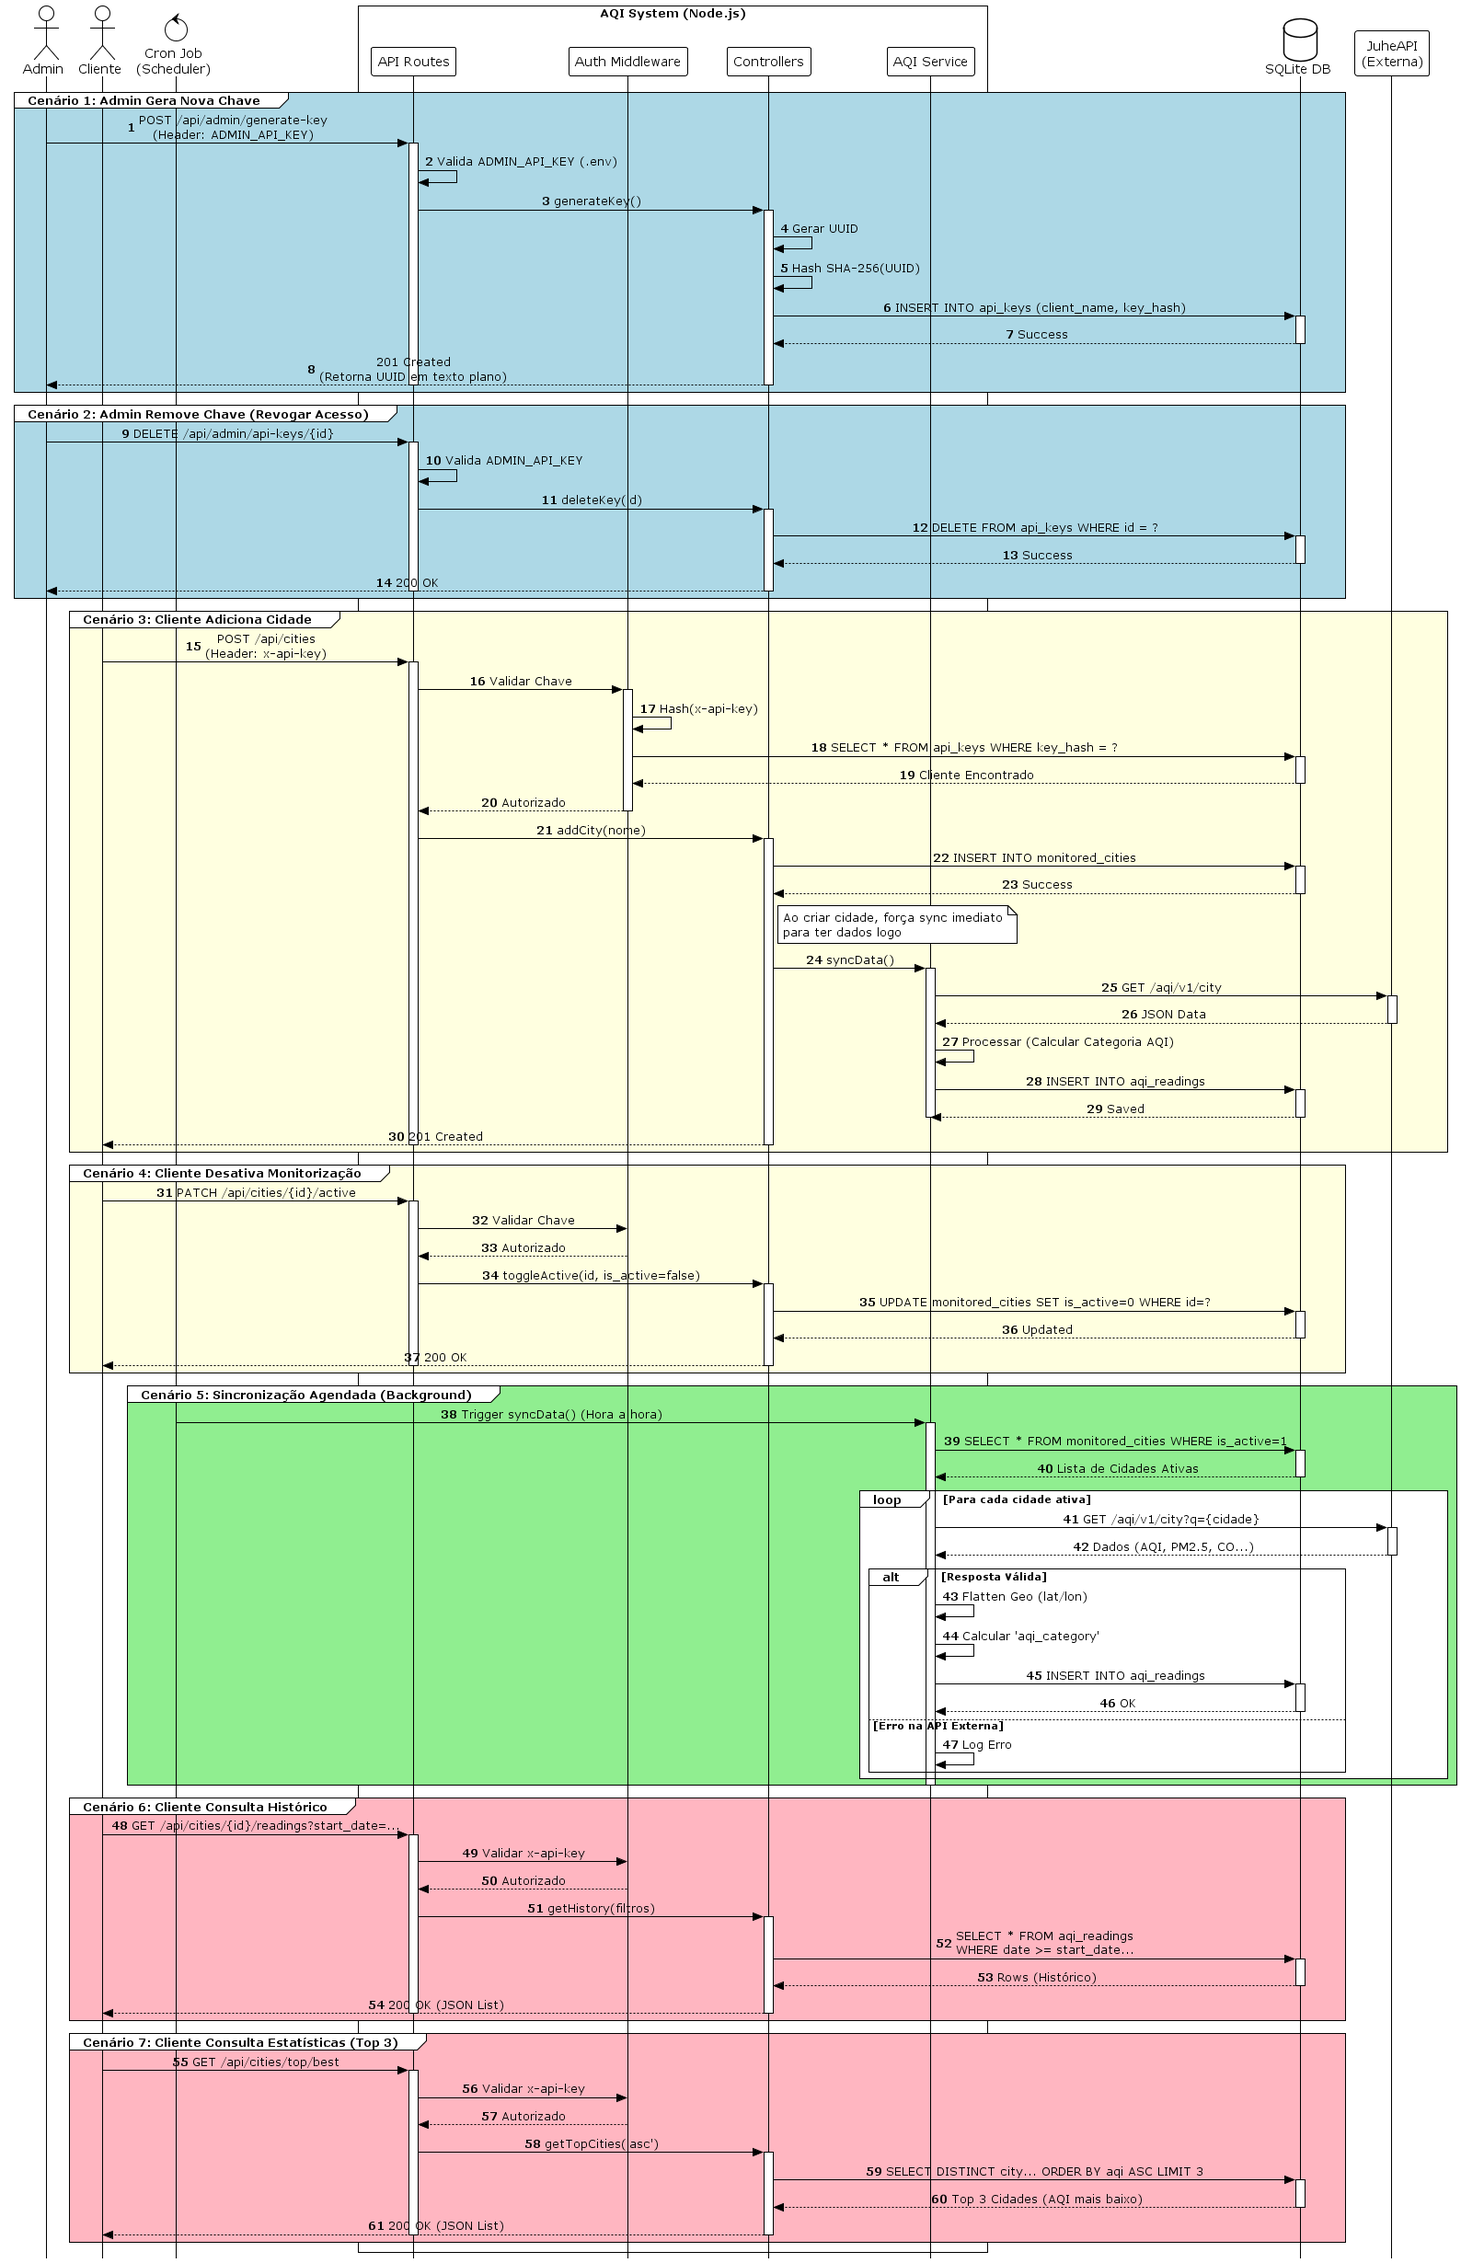
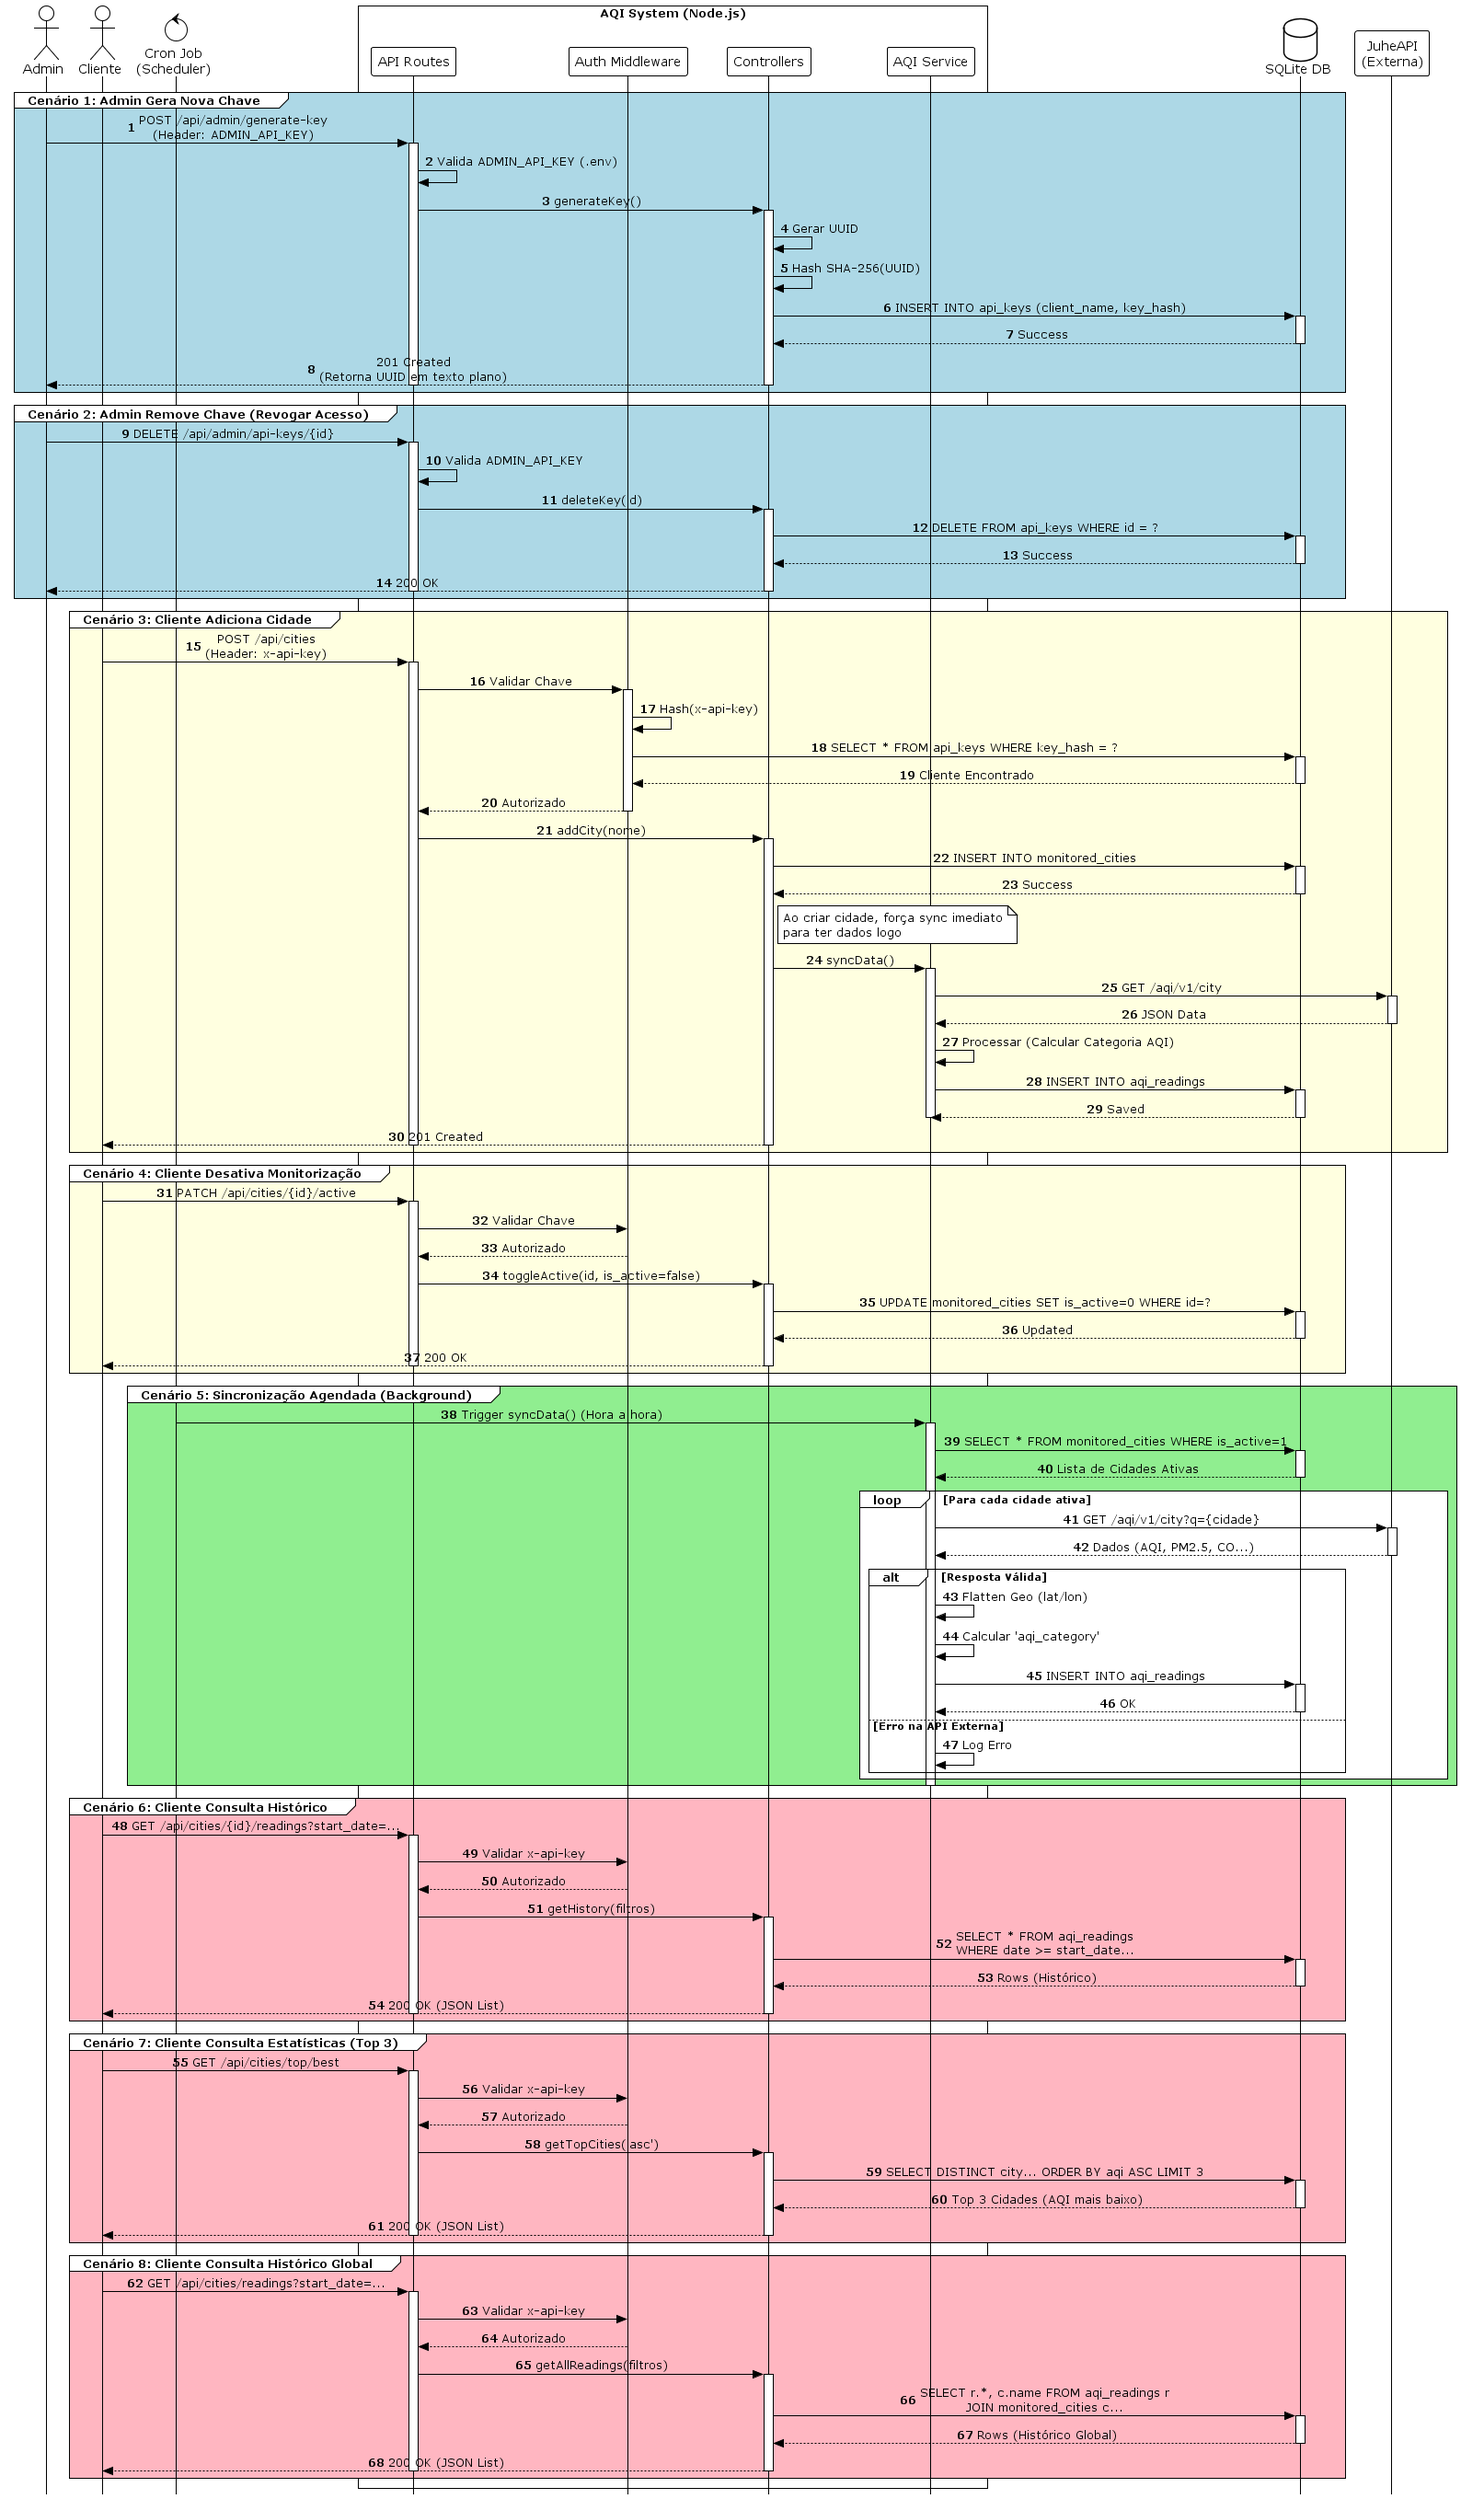
adds new endpoint for get all cities history readinds and fixes query parameters missing

diff --git a/src/controllers/readingController.js b/src/controllers/readingController.js
@@ -1,6 +1,50 @@
 const db = require('../config/database');
 
 const ReadingController = {
+    // GET /api/cities/readings - Histórico global (todas as cidades)
+    getAllReadings: (req, res) => {
+        const { start_date, end_date, limit } = req.query;
+
+        // JOIN para incluir o nome da cidade nos resultados globais
+        // Usamos alias 'r' para readings e 'c' para cities
+        let sql = `
+            SELECT r.*, c.display_name as city_name 
+            FROM aqi_readings r
+            JOIN monitored_cities c ON r.city_id = c.id
+            WHERE 1=1
+        `;
+        const params = [];
+
+        if (start_date) {
+            sql += ` AND r.measured_at >= ?`;
+            params.push(start_date);
+        }
+
+        if (end_date) {
+            sql += ` AND r.measured_at <= ?`;
+            params.push(end_date);
+        }
+
+        // Ordenação por data decrescente
+        sql += ` ORDER BY r.measured_at DESC`;
+
+        // Limite
+        sql += ` LIMIT ?`;
+        params.push(limit ? parseInt(limit) : 50);
+
+        db.all(sql, params, (err, rows) => {
+            if (err) {
+                return res.status(500).json({ error: err.message });
+            }
+            res.json({
+                status: 'success',
+                filters: { start_date, end_date, limit },
+                count: rows.length,
+                data: rows
+            });
+        });
+    },
+    
     // GET /cities/:id/readings - Histórico de uma cidade com filtros
     getHistory: (req, res) => {
         const cityId = req.params.id;

diff --git a/src/routes/apiRoutes.js b/src/routes/apiRoutes.js
@@ -25,6 +25,7 @@ router.get('/cities/top/best', CityController.getTopBest);
 router.get('/cities/top/worst', CityController.getTopWorst);
 
 // Leituras
+router.get('/cities/readings', ReadingController.getAllReadings);
 router.get('/cities/:id/readings', ReadingController.getHistory);
 router.patch('/readings/:id', ReadingController.addNote);      
 router.delete('/readings/:id', ReadingController.deleteReading); 

diff --git a/docs/README.md b/docs/README.md
@@ -220,11 +220,17 @@ Body: `{ "is_active": false }`
 
 ### 5.3. Dados (Leituras)
 
-**GET /cities/:city_id/readings** Obtém histórico de qualidade do ar.  
+**GET /cities/readings** Obtém histórico de qualidade do ar de todas as cidades monitorizadas.  
 Query Params (opcionais):
 - `start_date` (ex: 2025-01-01)
 - `end_date` (ex: 2025-01-31)
-- `limit` (padrão: 50)
+- `limit` (padrão: 100)
+
+**GET /cities/:city_id/readings** Obtém histórico de qualidade do ar de uma cidade específica.  
+Query Params (opcionais):
+- `start_date` (ex: 2025-01-01)
+- `end_date` (ex: 2025-01-31)
+- `limit` (padrão: 100)
 
 **PATCH /readings/:reading_id** Adiciona notas a uma leitura.  
 Body: `{ "user_notes": "Anomalia detectada." }`
